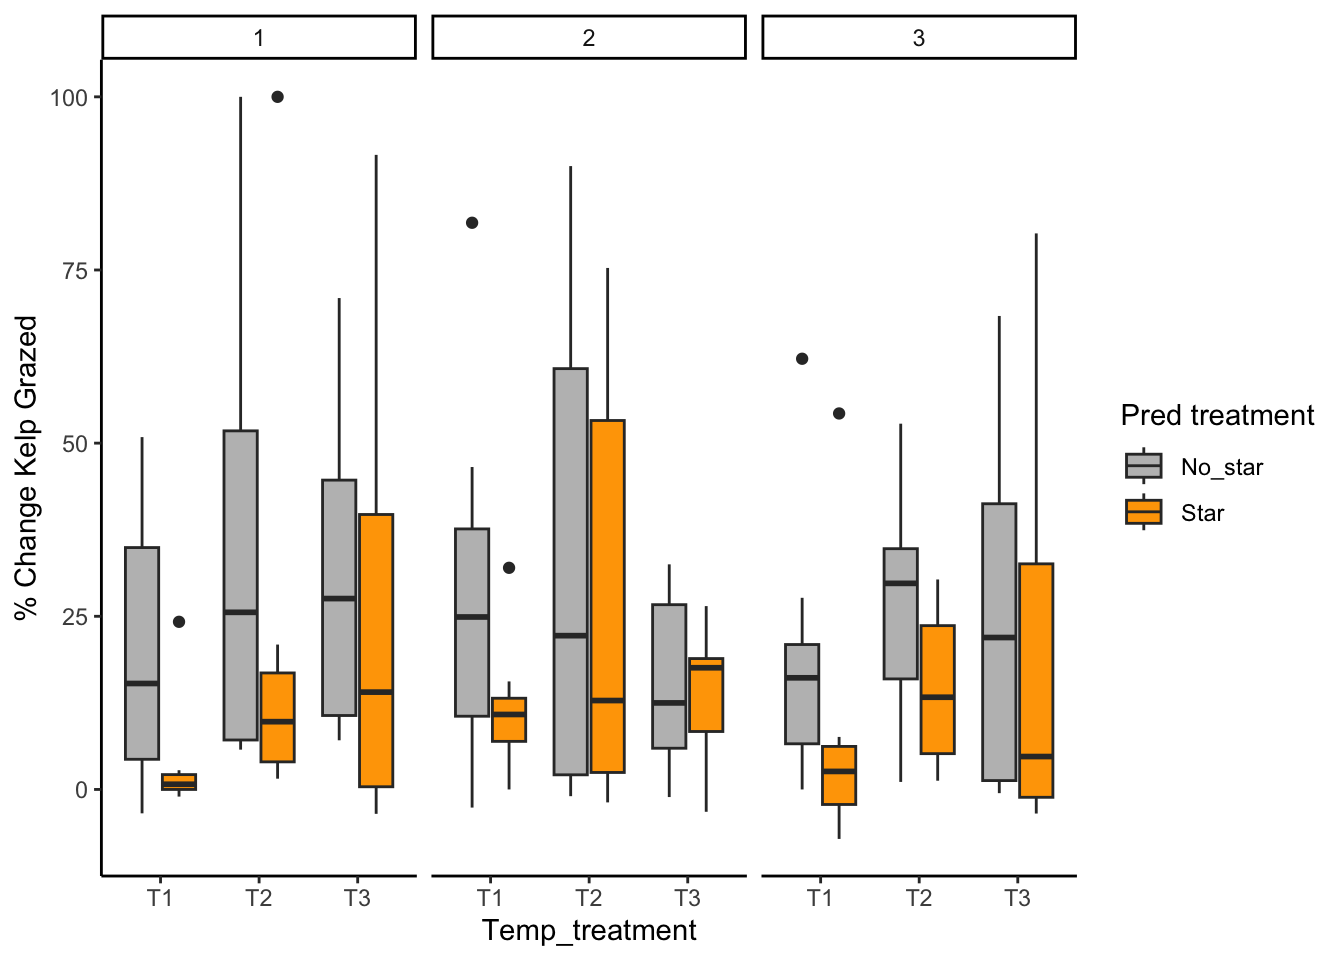
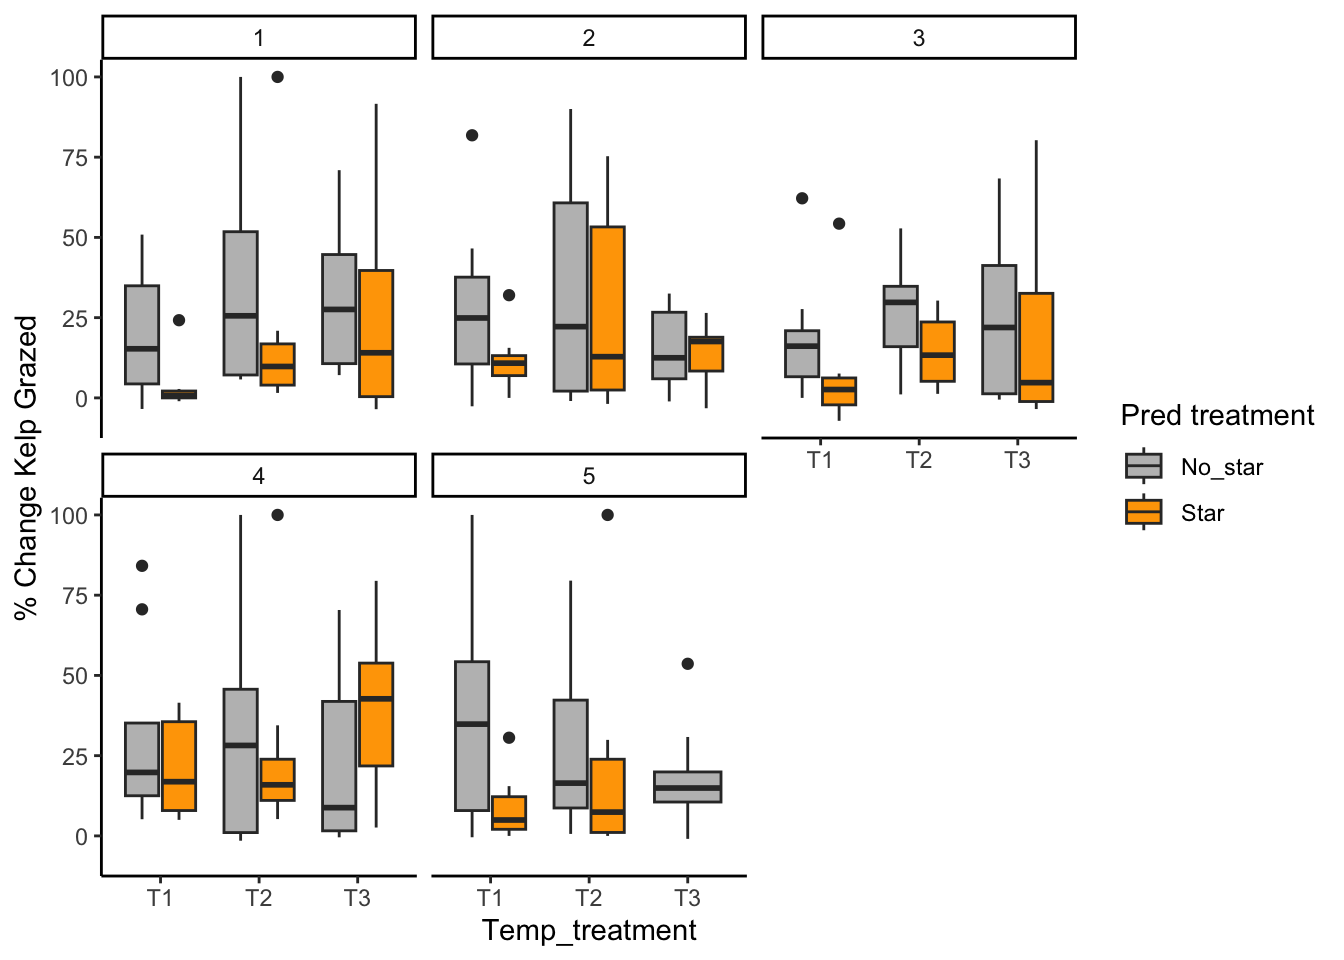
trial 5

diff --git a/docs/live_kelp.html b/docs/live_kelp.html
@@ -120,7 +120,7 @@ pre > code.sourceCode > span > a:first-child::before { text-decoration: underlin
 <span id="cb2-2"><a href="#cb2-2" aria-hidden="true" tabindex="-1"></a><span class="fu">unique</span>(<span class="fu">subset</span>(kelp_processed, <span class="sc">!</span><span class="fu">is.na</span>(pcnt_grazed))<span class="sc">$</span>Trial)</span></code><button title="Copy to Clipboard" class="code-copy-button"><i class="bi"></i></button></pre></div>
 </details>
 <div class="cell-output cell-output-stdout">
-<pre><code>[1] 1 2 3</code></pre>
+<pre><code>[1] 1 2 3 4 5</code></pre>
 </div>
 </div>
 </section>
